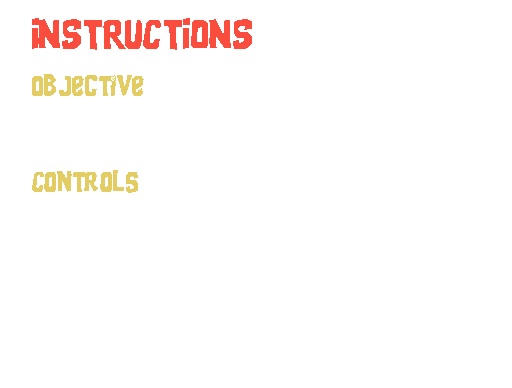
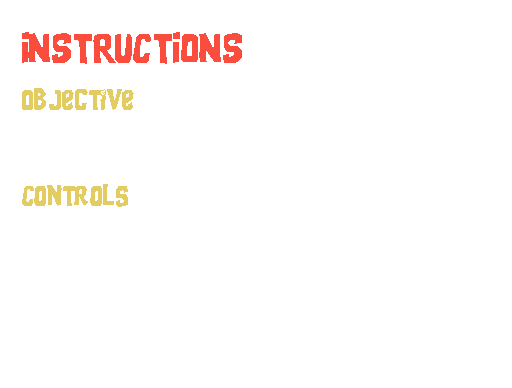
Added instructions

Changed region(s): [[0.0312, 0.0309, 0.5, 0.3093], [0.0312, 0.433, 0.2812, 0.5567]]

diff --git a/The Goonies/Start.cpp b/The Goonies/Start.cpp
@@ -13,6 +13,12 @@ void Start::init(Player* player) {
 	start = Sprite::createSprite(glm::vec2(SCREEN_WIDTH, SCREEN_HEIGHT), glm::vec2(0.5f, 1.f), &startTexture, &texProgram);
 	start->setPosition(glm::vec2(0.f));
 
+	instructionsTexture = Texture();
+	instructionsTexture.loadFromFile("images/Instructions.png", TEXTURE_PIXEL_FORMAT_RGBA);
+	instructionsTexture.setMagFilter(GL_NEAREST);
+	instructions = Sprite::createSprite(glm::vec2(SCREEN_WIDTH, SCREEN_HEIGHT), glm::vec2(1.f), &instructionsTexture, &texProgram);
+	instructions->setPosition(glm::vec2(0.f));
+
 	start->setNumberAnimations(1);
 	start->setAnimationSpeed(0, 2);
 	start->addKeyframe(0, glm::vec2(0.f));
@@ -25,7 +31,14 @@ void Start::update(int deltaTime) {
 	start->update(deltaTime);
 
 	if(Game::instance().getKey(GLUT_KEY_SPACEBAR))
-		Game::instance().start();
+		cooldown -= deltaTime;
+
+	if(cooldown < 5000) {
+		cooldown -= deltaTime;
+		if(cooldown <= 0)
+			Game::instance().start();
+	}
+		
 }
 
 void Start::render() {
@@ -36,5 +49,8 @@ void Start::render() {
 	texProgram.setUniformMatrix4f("modelview", glm::mat4(1.f));
 	texProgram.setUniform2f("texCoordDispl", 0.f, 0.f);
 
-	start->render();
+	if(cooldown == 5000)
+		start->render();
+	else
+		instructions->render();
 }

diff --git a/The Goonies/YellowScene.cpp b/The Goonies/YellowScene.cpp
@@ -40,7 +40,7 @@ void YellowScene::setEnemies() {
 	bat->setPlayer(player);
 	enemies.push_back(bat);
 
-	Bat* bat = new Bat();
+	bat = new Bat();
 	bat->init(glm::ivec2(5, 66) * TILE_SIZE, OFFSET, texProgram);
 	bat->setCollisionMap(collisionMap);
 	bat->setPlayer(player);

diff --git a/The Goonies/Start.h b/The Goonies/Start.h
@@ -11,8 +11,12 @@ protected:
 	void render();
 
 private:
+	int cooldown = 5000; 
 	Texture startTexture;
 	Sprite* start;
+
+	Texture instructionsTexture;
+	Sprite* instructions;
 
 };
 
